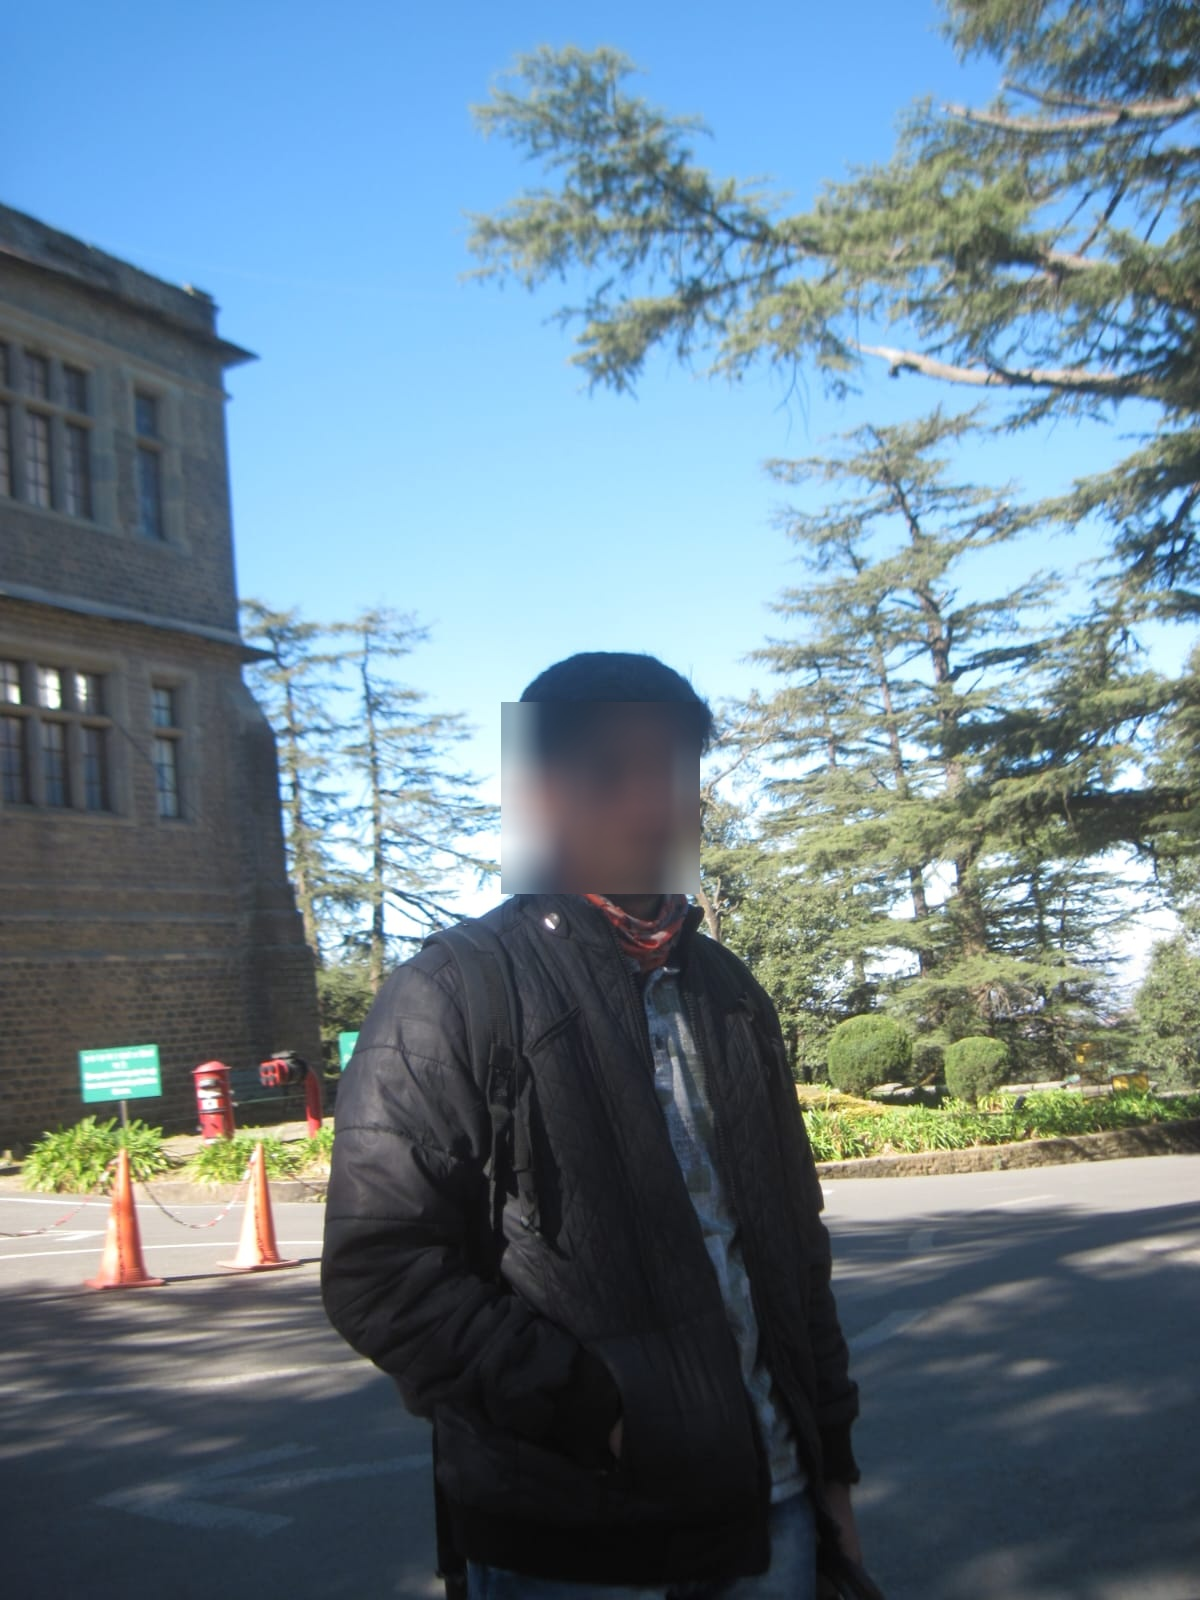
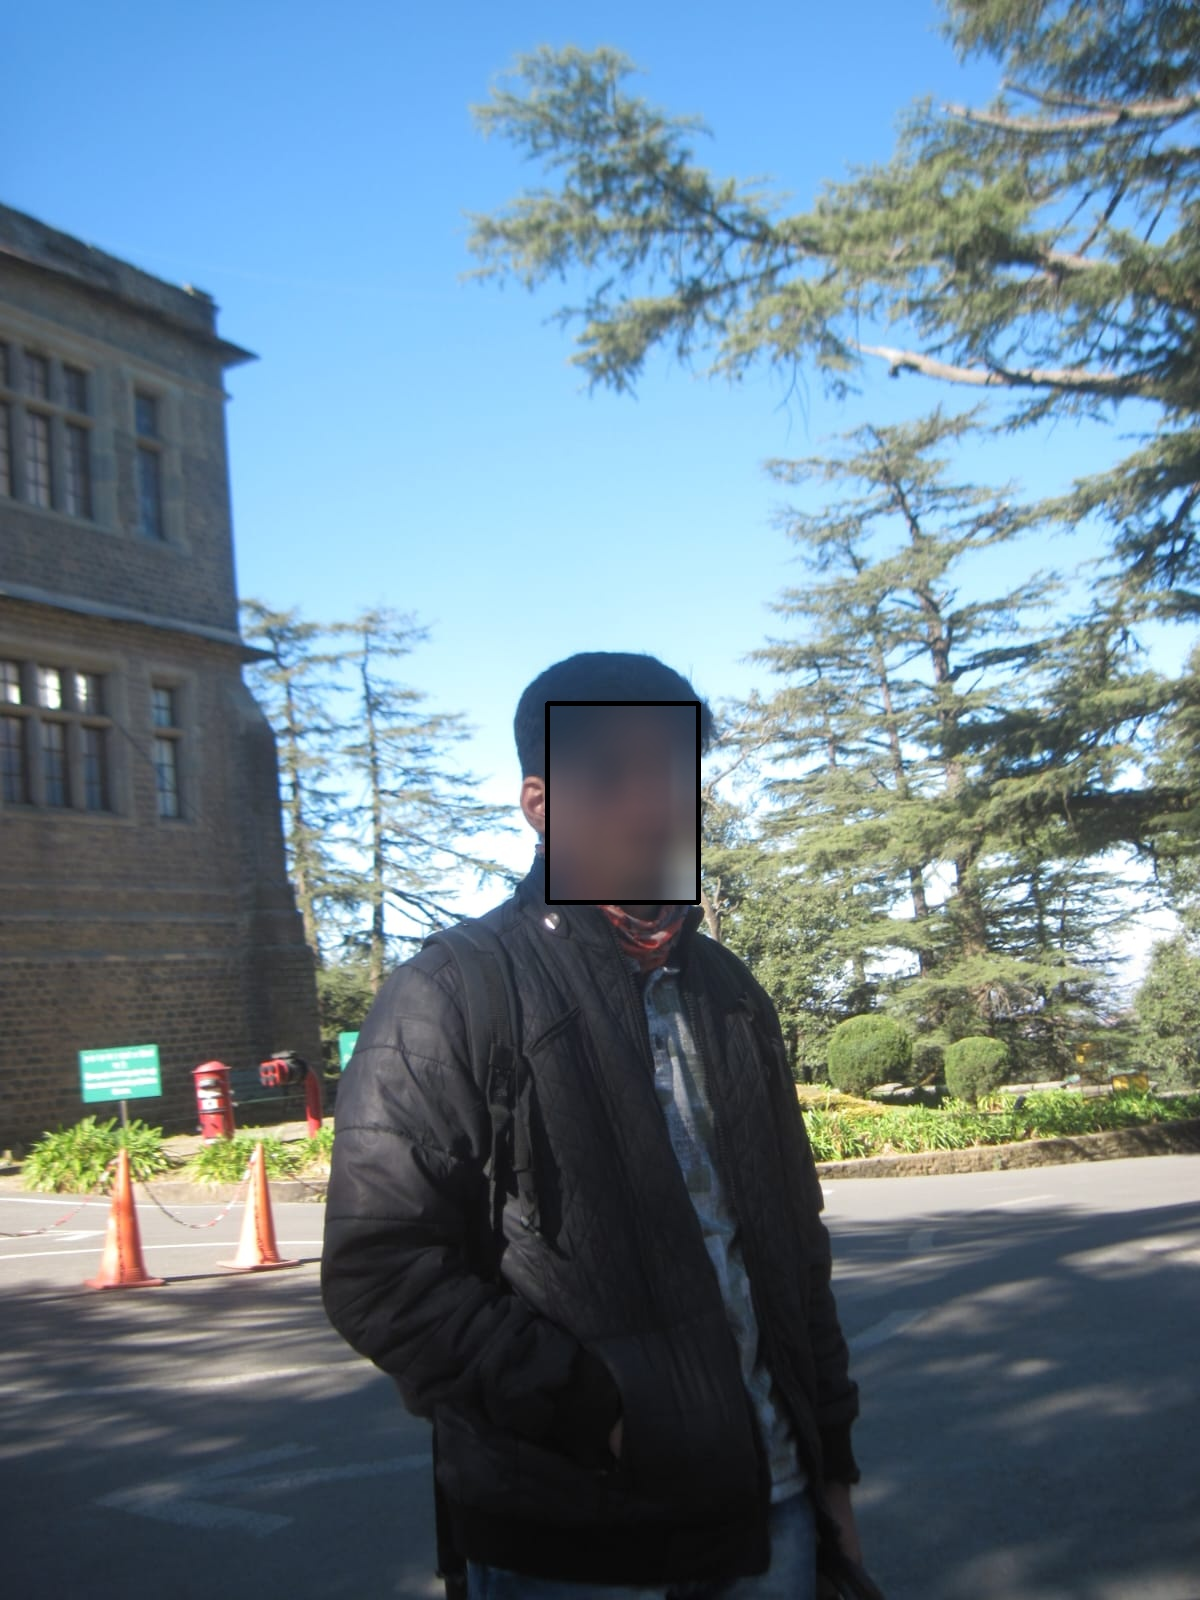
updated

Changed region(s): [[0.4008, 0.4375, 0.4625, 0.5625], [0.555, 0.4375, 0.5858, 0.5625]]

diff --git a/Utsav_Solution/ques1.py b/Utsav_Solution/ques1.py
@@ -4,7 +4,7 @@ from os import listdir
 import pickle
 
 def store_coordinates(coord_list, j):
-   with open('/Users/utsavmdesai/Documents/SEM 6/CS 763/Task1/pickle_files/' + str(j), 'ab') as f:
+   with open('/Users/utsavmdesai/Documents/SEM 6/CS 763/Task1/pickle_files/' + str(j), 'wb') as f:
       pickle.dump(coord_list, f)
    f.close()
 
@@ -77,7 +77,7 @@ print(listdir(dataset_folder))
 print(listdir(pickle_folder))
 
 
-def Gaussian_Blur(dataset_folder, saving_folder, pickle_folder):
+def Gaussian_Blur_Rectangle(dataset_folder, saving_folder, pickle_folder):
    i = 0
    data_list = listdir(dataset_folder)
    pic_list = listdir(pickle_folder)
@@ -107,13 +107,18 @@ def Gaussian_Blur(dataset_folder, saving_folder, pickle_folder):
 
 
       result_img = img.copy()
-      cv2.imshow('res img', result_img)
-      cv2.waitKey(0)
-      cv2.destroyAllWindows()
 
-      result_img[coord_list[0][1]:coord_list[0][3], coord_list[0][0]:coord_list[0][2],:] = cv2.GaussianBlur(result_img[coord_list[0][1]:coord_list[0][3], coord_list[0][0]:coord_list[0][2], :], (53, 53), 10000)
+      for k in range(len(coord_list)):
+         result_img[coord_list[k][1]:coord_list[k][3], coord_list[k][0]:coord_list[k][2], :] = cv2.GaussianBlur(
+            result_img[coord_list[k][1]:coord_list[k][3], coord_list[k][0]:coord_list[k][2], :], (53, 53), 10000)
+         result_img = cv2.rectangle(result_img, (coord_list[k][0], coord_list[k][1]), (coord_list[k][2], coord_list[k][3]), (0, 0, 0), 2)
+
+      # cv2.imshow('res img', result_img)
+      # cv2.waitKey(0)
+      # cv2.destroyAllWindows()
+
 
       cv2.imwrite(saving_folder + str(i) + '.jpg', result_img)
       print('saving resultant image...')
 
-Gaussian_Blur(dataset_folder, saving_folder, pickle_folder)
+Gaussian_Blur_Rectangle(dataset_folder, saving_folder, pickle_folder)
